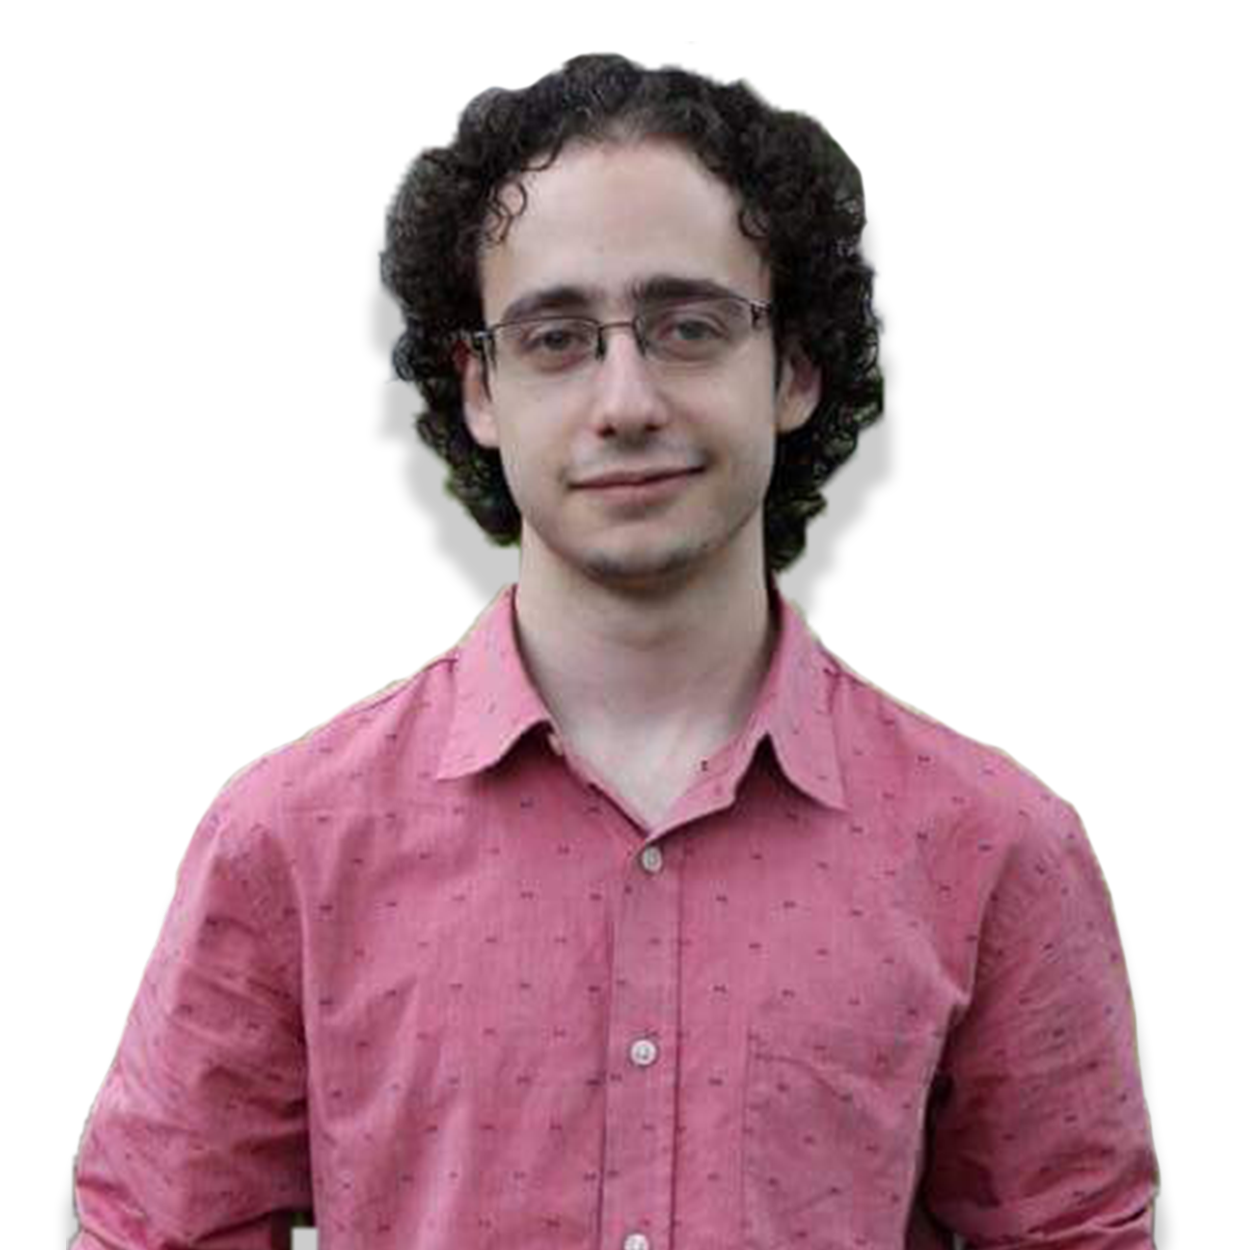
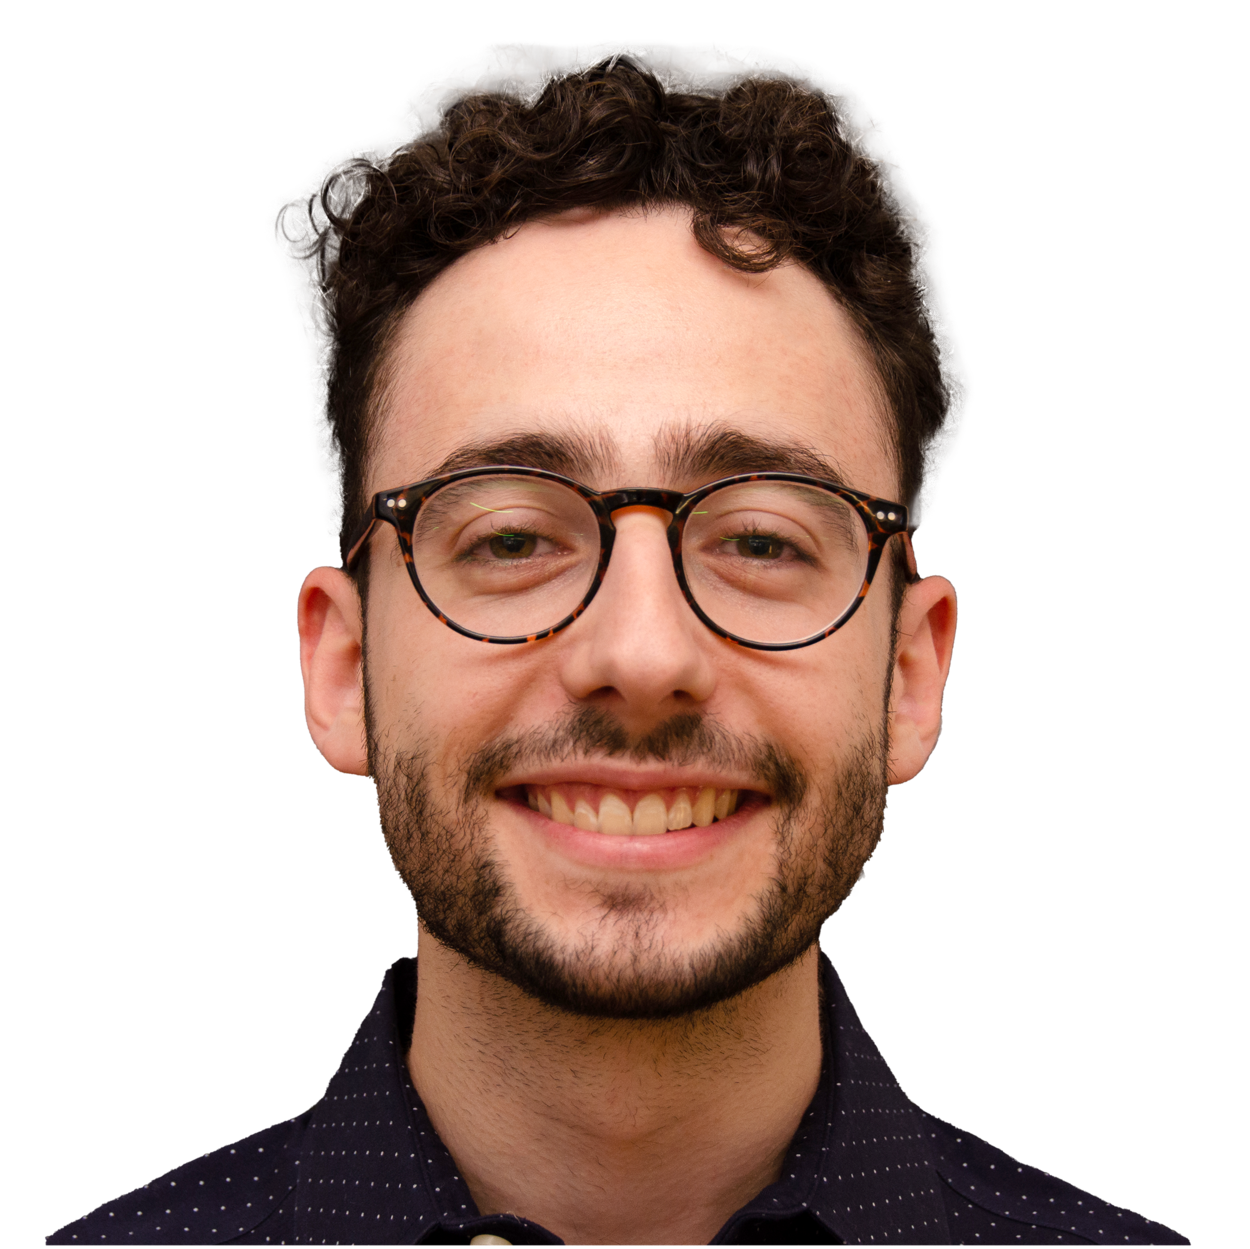
Updates sep 22 (#47)
* Sep 2022 Updates

* images

* Updates

* text

* Remove subtitle bullet

* khurram pic

diff --git a/src/components/Team/members.js b/src/components/Team/members.js
@@ -5,7 +5,7 @@ const members = [
     role: 'CEO',
     photo: require('../../images/team/real/nathan.png'),
     cartoon: require('../../images/team/cartoons/nathan.png'),
-    description: `Nathan is a space nerd with experience in management, systems, rapid prototyping, manufacturing, and project management. He has a Bachelor's degree in Mechanical Engineering and a Master's degree in Space Systems Engineering from Stevens Institute of Technology.`,
+    description: `Nathan holds an M.Eng. in Space Systems Engineering and a B.Eng. in Mechanical Engineering. He is a space nerd with experience in systems development, rapid prototyping, manufacturing, and project management. In addition to systems architecture, he oversees business development, fundraising, management, and planning.`,
     linkedin: 'nathan-tahbaz',
   },
   {
@@ -16,17 +16,17 @@ const members = [
     cartoon: require('../../images/team/cartoons/monica.png'),
     linkedin: 'monica-traupmann',
     description:
-      'Monica is an explosions enthusiast with experience in propulsion design, fuel delivery systems, and instrumentation, as well as fundraising and crowdfunding for small-scale projects. She has a Bachelor’s degree in Chemical Engineering and a Master’s degree in Mechanical Engineering with a focus on Energy, Fluids, and Heat Transfer.',
+      'Monica is an explosions enthusiast with experience in fuel delivery systems and instrumentation. She has an M.Eng. in Mechanical Engineering and a B.Eng. in Chemical Engineering. She also oversees technology development strategy and leads propulsion systems design.',
   },
   {
-    first: 'Benjamin',
+    first: 'Ben',
     last: 'Iofel',
     role: 'CIO',
     photo: require('../../images/team/real/ben.png'),
     cartoon: require('../../images/team/cartoons/ben.png'),
     linkedin: 'beniofel',
     github: 'benwaffle',
-    description: `Ben is a computer expert with extensive experience in software development, embedded programming, and Linux. He is a software engineer at Flow and brings that culture and experience to Hudson Space Systems. He has a B.S. in Computer Science.`,
+    description: `Ben has a B.Sci. in Computer Science and extensive experience in software development, web & embedded programming, and Linux. He is responsible for designing and building experiment controls and DAQ, the customer portal, and the embedded distributed flight controller board.`,
   },
   {
     first: 'Dakota',
@@ -35,10 +35,10 @@ const members = [
     photo: require('../../images/team/real/dakota.png'),
     cartoon: require('../../images/team/cartoons/dakota.png'),
     linkedin: 'dvandeursen',
-    description: `Dakota is passionate about learning how complex systems work together - both physically and socially. He weaves experience with STEM in the workplace into his personal history in peer management and governing bodies. He has a B.Eng. in Chemical Engineering and an M.S. in Materials Science & Engineering from Stevens Institute of Technology.`,
+    description: `Dakota manages the team's assets, personnel, and logistics for both hardware projects and day-to-day operations, and directs payroll and HR. His M.Eng. in Materials Science and Engineering and a B.Eng. in Chemical Engineering, as well as time spent as a chemistry and materials researcher, also help him in various technical aspects of the business.`,
   },
   {
-    first: 'Nicholas',
+    first: 'Cole',
     last: 'Yarbrough',
     role: 'Engineer',
     photo: require('../../images/team/real/cole.png'),
@@ -54,7 +54,7 @@ const members = [
     cartoon: require('../../images/team/cartoons/igor.png'),
     linkedin: 'igor-alexandrov-033123',
     description:
-      'Igor is an experienced president with a demonstrated history of working in the research industry. Strong business development professional skilled in Analytical Skills, Entrepreneurship, Fundraising, Software Development, and Start-ups.',
+      'Igor is a driven entrepreneur and technical advisor with multiple degrees, including a D.Sci in Complex Systems Design, a Ph.D. in Applied Physics, and an MBA. He has over 30 years of experience in science, space, and research, and has published extensively. He has held several executive roles for tech companies, and holds a variety of patents.',
   },
   {
     first: 'Khurram',
@@ -64,7 +64,7 @@ const members = [
     cartoon: require('../../images/team/cartoons/khurram.png'),
     linkedin: 'kngore',
     description:
-      'Khurram is a business executive, attorney, engineer and an advocate for diversity and STEM. With over 20 years in the tech and innovation space, his work brings together a deep understanding of business development, product lifecycle, data ethics, and the legal implications and challenges for companies that push boundaries.',
+      'Khurram is a business executive, attorney, engineer and an advocate for diversity and STEM. With over 20 years in the tech and innovation fields and both a J.D. and M.Eng., his work brings together a deep understanding of business development, data ethics, and the legal implications for companies that push boundaries. He provides strategic business development advice.',
   },
   {
     first: 'Gerard',
@@ -74,7 +74,7 @@ const members = [
     cartoon: require('../../images/team/cartoons/gerry.png'),
     linkedin: 'gerarddifiore',
     description:
-    'Gerry has been a partner at Reed Smith since 1998, and brings 30 years of experience to Hudson Space Systems. He routinely works with senior management and private equity firms in reaching strategic goals, focusing on public and private securities offerings, mergers and acquisitions, PE and VC investments, joint ventures and similar corporate transactional and governance matters.',
+    'Gerry, J.D., brings nearly 40 years of experience in investment and capital markets to his role at Hudson Space Systems. He routinely works with private equity firms to reach strategic securities, acquisition, and offering goals.',
   },
 ]
 

diff --git a/src/components/FAQAccordion/questions.js b/src/components/FAQAccordion/questions.js
@@ -1,7 +1,7 @@
 const questions = [
   {
-    q: 'What is your mission?',
-    a: 'We\'re designing a faster future today. Made in Hoboken, NJ, we\'re Hudson Space Systems. Our goal is to make access to microgravity research and manufacturing simple and affordable.'
+    q: 'What’s your mission?',
+    a: 'We want to enable the next industrial revolution in space! The time is right, and all of the technology is available. We’re putting together the pieces to build the first layer of in-space infrastructure.',
   },
   {
     q: 'What is microgravity?',
@@ -19,9 +19,9 @@ const questions = [
       'Well... that’s the problem. The launch providers currently servicing this market are already operating at capacity, with extremely long lead times and sky high prices, which also means there are few chances for iterative experimentation. Because of this, opportunities to research in microgravity are limited.',
   },
   {
-    q: 'How can Hudson Space help this research?',
+    q: 'How can Hudson Space Systems help me?',
     a:
-      'Bringing together a team of quirky rocket scientists, we’ve developed and built an innovative, fully-reusable launch platform. We can increase launch frequencies, lower costs, and remove the traditional barriers to sending experiments in space. We’re using our affordable and streamlined suborbital rocket technology to offer rides to space (and back) for research payloads, on a dependable schedule and at attainable rates.',
+      'Hudson Space Systems builds and integrates a stack of aerospace technologies to provide an end-to-end space access service. We call it Microgravity as a Service™, and its goal is to eliminate existing barriers (cost, supply, complexity, etc.) for academic and corporate STEM customers alike. The result is simplified access to microgravity for advanced research/development/manufacturing.',
   },
 ]
 

diff --git a/src/components/Service/steps.js b/src/components/Service/steps.js
@@ -8,19 +8,19 @@ const steps = [
   {
     title: 'Schedule',
     description:
-      'No wait list. Period. You want to do cutting edge science, we want to make that happen ASAP. Our fleet is ready when you are.',
+      'No wait list. Period. You want to do cutting edge science, we want to make that happen ASAP. We’re ready when you are.',
     image: date,
   },
   {
-    title: 'Payload Integration',
+    title: 'Payloads',
     description:
-      'Fly our ready-to-go cubesat-style capsules, available with data/power, pressurized environments, and live telemetry. We’ll help you customize your capsule to your exact requirements.',
+      'Fly our preconfigured microFactories and microLabs, available with data/power, pressurized environments, and live telemetry, and much more. We’ll make sure there’s a microFactory perfect for your mission.',
     image: droptower,
   },
   {
     title: 'Launch',
     description:
-      'Our returnable orbiter brings your payload to VLEO for as long as you need. Stay for a day, month, or a year, and have your results returned to you with no delay.',
+      'We’ve got your ride, no need to shop for launch services. Stay for a day, month, or a year, and have your results returned to you with no delay.',
     image: rocket,
   },
   {
@@ -32,7 +32,7 @@ const steps = [
   {
     title: 'Iterate',
     description:
-      'One-offs are great for a proof of concept, but good science needs a robust data set. Our reusable vehicle and customer-focused integration services make iterative launches fast, simple, and affordable.',
+      'One-offs are great for a proof of concept, but good science needs a robust data set. Our reusable system and customer-focused integration services make iterative launches fast, simple, and affordable.',
     image: repeat2,
   },
 ]

diff --git a/src/pages/index.js b/src/pages/index.js
@@ -19,7 +19,7 @@ const IndexPage = () => (
       <Section
         id="microgravity"
         title="Microgravity as a Service™"
-        subtitle="We want to make manufacturing and research in microgravity as easy as ordering a lab test here on Earth. With our end-to-end service, customers will have a dependable schedule of launches to book a spot on, and full integration services to help them carry out their processes."
+        subtitle="We want to make manufacturing and research in microgravity as easy as ordering a lab test here on Earth. With our end-to-end service, customers have a dependable schedule of launches to book a spot on and full integration services to help them carry out their processes."
       >
         <Service />
         <Callout

diff --git a/src/components/Section/Section.js b/src/components/Section/Section.js
@@ -37,17 +37,6 @@ const SectionSubtitle = styled.p`
   max-width: 40rem;
   position: relative;
   font-size: 1.25rem;
-
-  &:before {
-    position: absolute;
-    top: 0.5rem;
-    left: -1.25rem;
-    content: '';
-    width: 0.5rem;
-    height: 0.5rem;
-    border-radius: 0.25rem;
-    background-color: ${({ theme }) => theme.color.yellow};
-  }
 `
 
 const SectionContent = styled.div`
